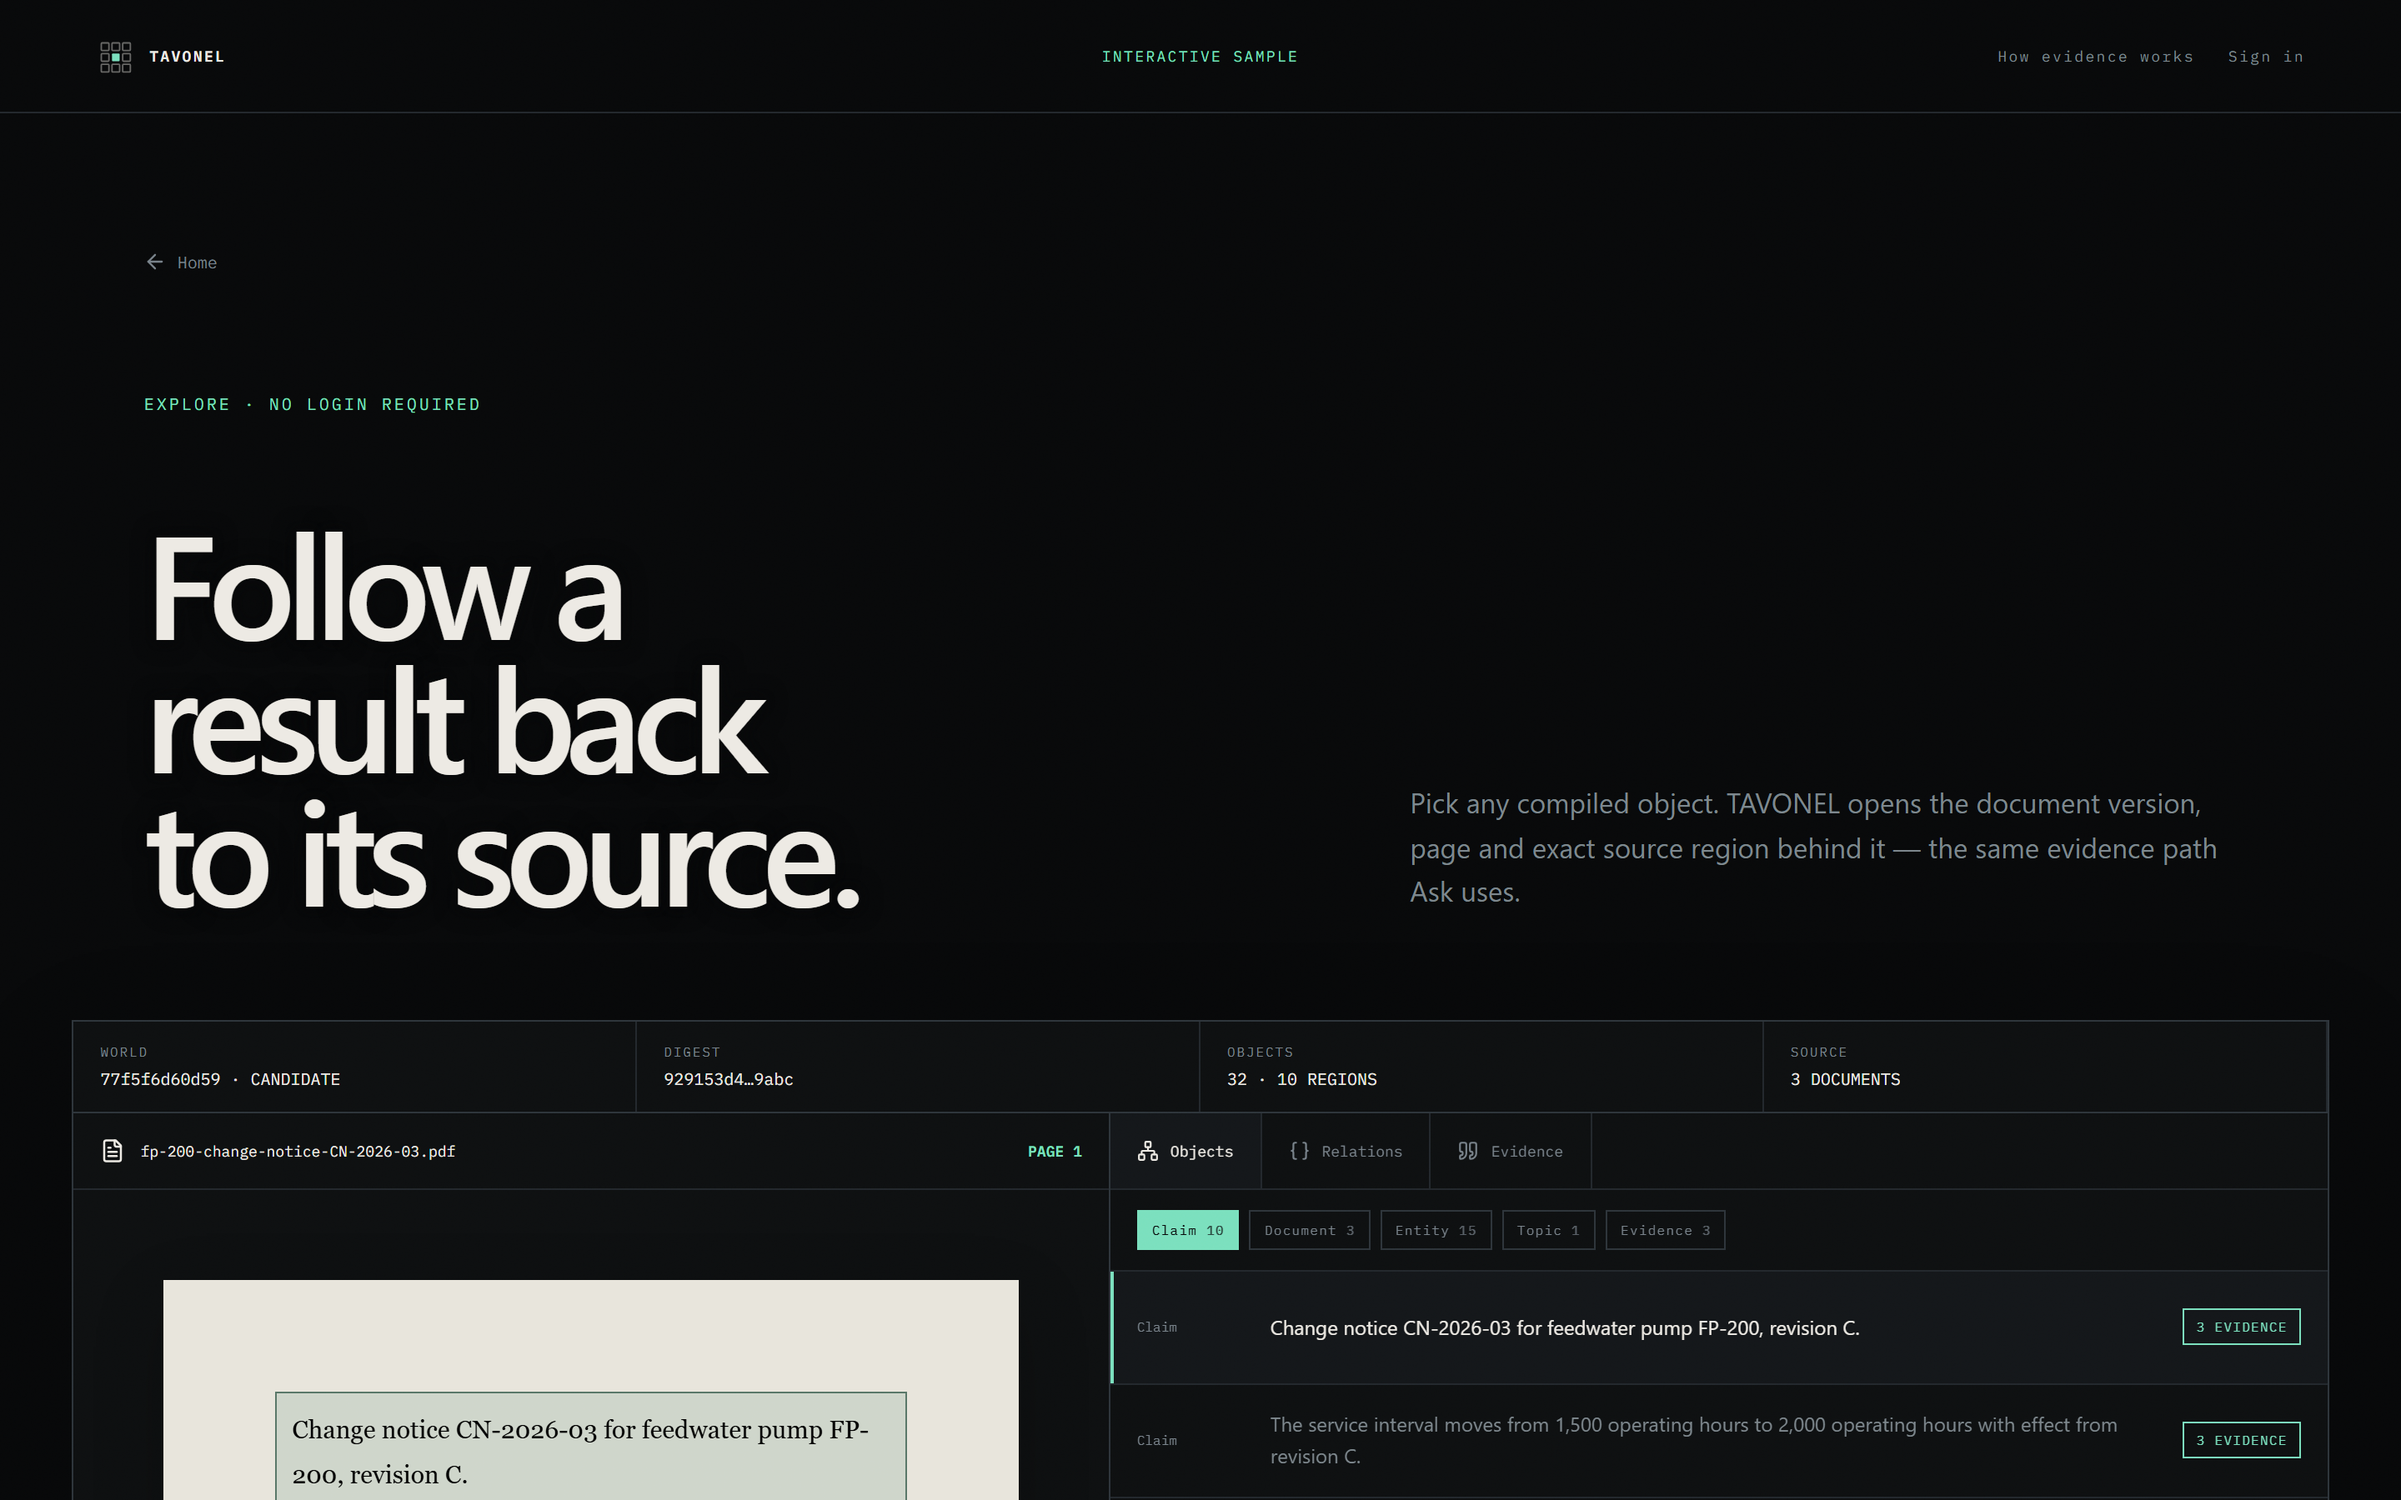
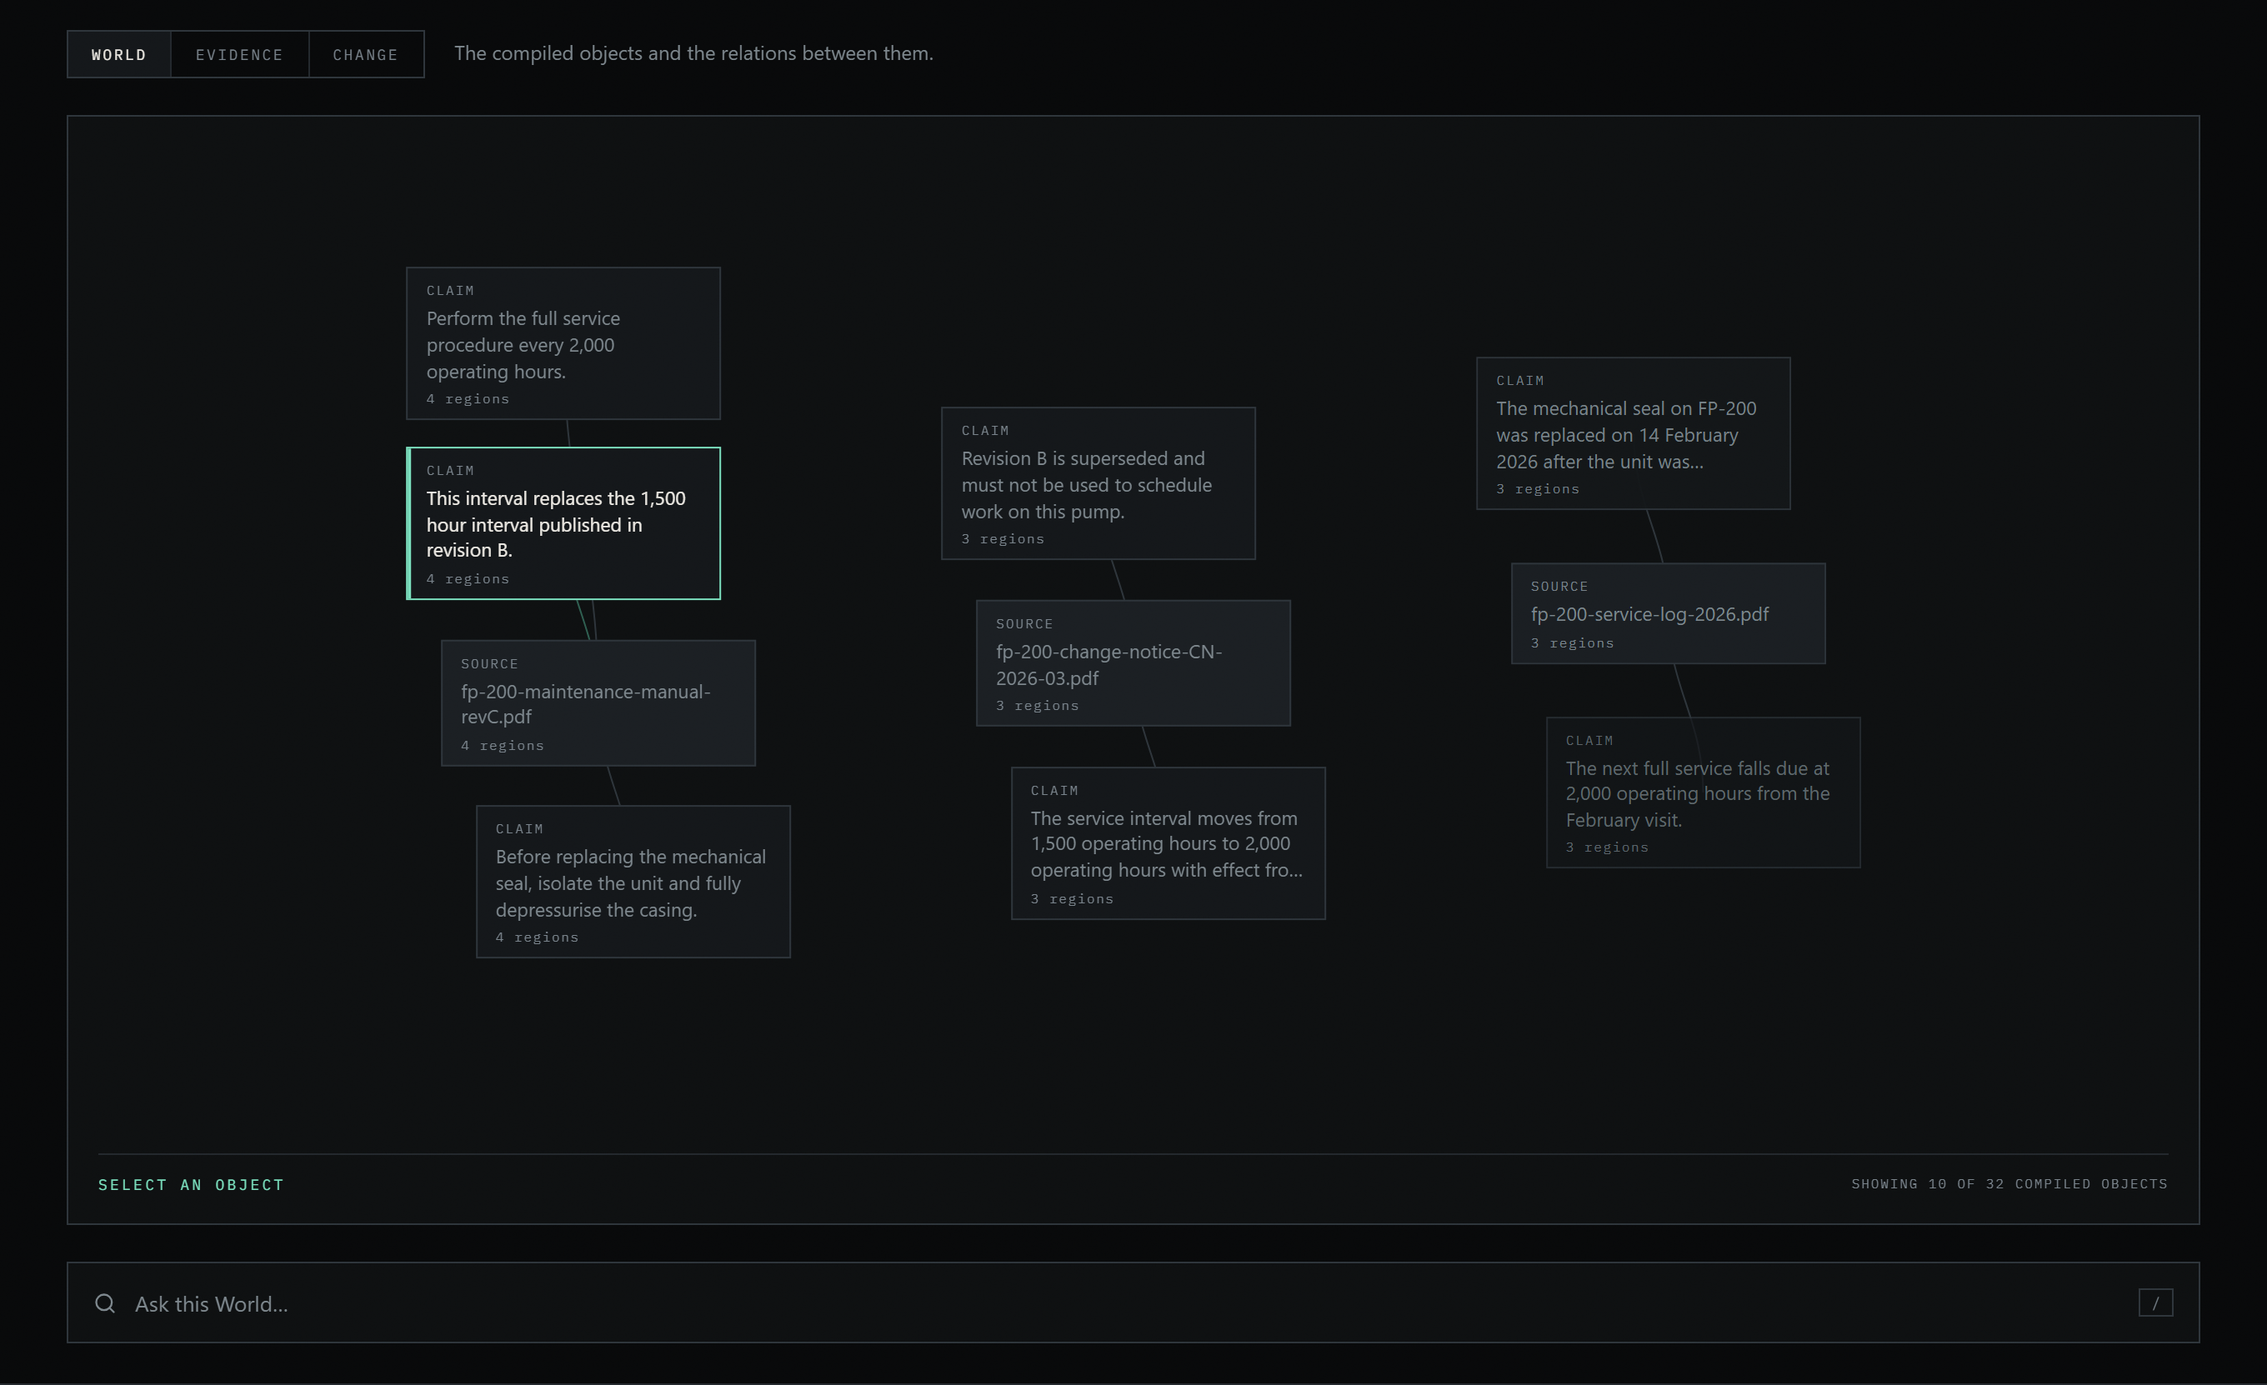
docs: re-capture visual continuity now that the Explore stage exists
The 2026-09-05 baseline was taken on the visual-continuity lane's own branch,
where the explore side could only be recorded as pending: the lane that builds
the stage was running in parallel and the [data-visual-world="explore"] root
the comparison needs had not landed. The report said so and asked to be re-run
once it did.

This is that re-run, against the integrated branch, from the same script with
no arguments changed. The explore side is now captured rather than pending, so
report.md carries a comparison instead of a not_yet, and cut4.png/cut4.json are
re-measured on the same build rather than carried over from a different one.

Claude-Session: https://claude.ai/code/session_01YXVU1YHRxSWDTZiK3obWLu

diff --git a/docs/audit/visual-continuity/2026-09-05/report.md b/docs/audit/visual-continuity/2026-09-05/report.md
@@ -8,7 +8,7 @@ Lane contract §29 named `/film-4` as the film route. That route is now `notFoun
 
 ## Cut 4 (film side)
 
-- Route: `http://127.0.0.1:3136/#s3` → `#compile-stage-tab-world`
+- Route: `http://127.0.0.1:3140/#s3` → `#compile-stage-tab-world`
 - Hooks used: `window.__filmFreeze = true`, `window.__filmSeek(16.8)`. Observed on `window` in the running page before the seek: `__filmSeek` → function, `__filmElapsed` → number, `__filmFreeze` → undefined (the film reads that flag in its rAF tick and never defines it, so `undefined` before the capture sets it is the expected observation). The capture refuses when `__filmSeek` is not callable.
 - Seek/freeze verified by frame digest: seeking 3.2s → 16.8s changed the frame (yes: sha256 `5c646fd36dae3209…` → `647e9a8094865a86…`), and the frame did not move over a 350ms hold (yes: `647e9a8094865a86…`). sha256 of a 320x180 downscale of the canvas, taken in-page at the probe beat, at the locked beat, and again after a hold at the locked beat. Within-run change detection only — the digests are renderer-specific and are not a cross-machine baseline.
 - Canvas found: yes
@@ -20,14 +20,22 @@ Lane contract §29 named `/film-4` as the film route. That route is now `notFoun
 
 ## Explore stage (world side)
 
-- Status: **pending**
-- Reason: The explore stage root [data-visual-world="explore"] was not found at /explore?act=world. Lane contract §4.2 defines this attribute for the redesigned Explore stage, which the `explore` lane (agent/cl-explore) builds in parallel and had not landed on this branch at capture time. This is expected, not a failure — the screenshot records whatever /explore currently renders on this branch (the pre-redesign page), for reference only; it is not the Interactive Product Film the comparison is meant to check. Re-run this script once the explore lane's markup is merged.
+- Status: **captured**
+- Route: `http://127.0.0.1:3140/explore?act=world`
+- `data-world-act`: `world`
+- Node count: 10 (7–12 band: yes)
+- Edge count: 7
 - Console/page errors during capture: 0
-- Image: `explore.png` (current /explore on this branch, not the redesigned stage — reference only)
+- Image: `explore.png`
 
 ## Comparison
 
-Not yet possible: the explore side has no `[data-visual-world="explore"]` markup on this branch. This is `not_yet`, not a failed comparison — re-run this script after the `explore` lane merges its Interactive Product Film rebuild.
+| Check | Film (cut 4) | Explore | Match |
+|---|---|---|---|
+| Node/composition present | canvas rendered | 10 nodes | yes |
+| Node count in 7–12 band | n/a (canvas has no discrete node list) | 10 | yes |
+| Camera / composition bounds | 1440×900 viewport, canvas fills its column | see `explore.json` `compositionBounds` | manual review |
+| State color | n/a (canvas draws directly, no discrete state attributes) | see `explore.json` node `color`/`backgroundColor` | manual review |
 
 ## Reproduce
 
